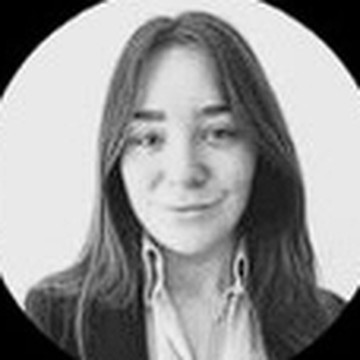
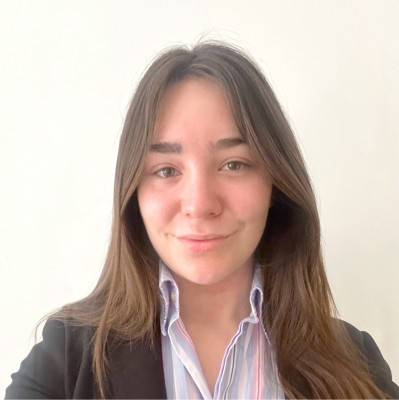
Replace speaker headshots and consolidate photo locations
Colour photos for Chloe Hollobon and Matt Cheung, and a proper portrait
for Andrew Simpson in place of the cropped lecture-theatre candid.

Each person now has one canonical file under assets/img/speakers, used
by both the events and alumni pages, rather than duplicate copies that
would drift apart.

diff --git a/alumni/index.html b/alumni/index.html
@@ -206,7 +206,7 @@
         <!-- Chloe Hollobon — 2025 -->
         <li class="alumni-card">
           <a class="alumni-card__photo alumni-card__photo--macro" href="https://www.linkedin.com/in/chloe-hollobon/" target="_blank" rel="noopener noreferrer" aria-label="Chloe Hollobon on LinkedIn">
-            <img src="assets/img/alumni/chloe.jpg" alt="Chloe Hollobon" />
+            <img src="assets/img/speakers/chloe-hollobon.jpg" alt="Chloe Hollobon" />
             <div class="alumni-card__photo-overlay" aria-hidden="true">
               <svg viewBox="0 0 24 24" fill="currentColor" width="28" height="28"><path d="M20.447 20.452h-3.554v-5.569c0-1.328-.027-3.037-1.852-3.037-1.853 0-2.136 1.445-2.136 2.939v5.667H9.351V9h3.414v1.561h.046c.477-.9 1.637-1.85 3.37-1.85 3.601 0 4.267 2.37 4.267 5.455v6.286zM5.337 7.433a2.062 2.062 0 01-2.063-2.065 2.064 2.064 0 112.063 2.065zm1.782 13.019H3.555V9h3.564v11.452zM22.225 0H1.771C.792 0 0 .774 0 1.729v20.542C0 23.227.792 24 1.771 24h20.451C23.2 24 24 23.227 24 22.271V1.729C24 .774 23.2 0 22.222 0h.003z"/></svg>
             </div>
